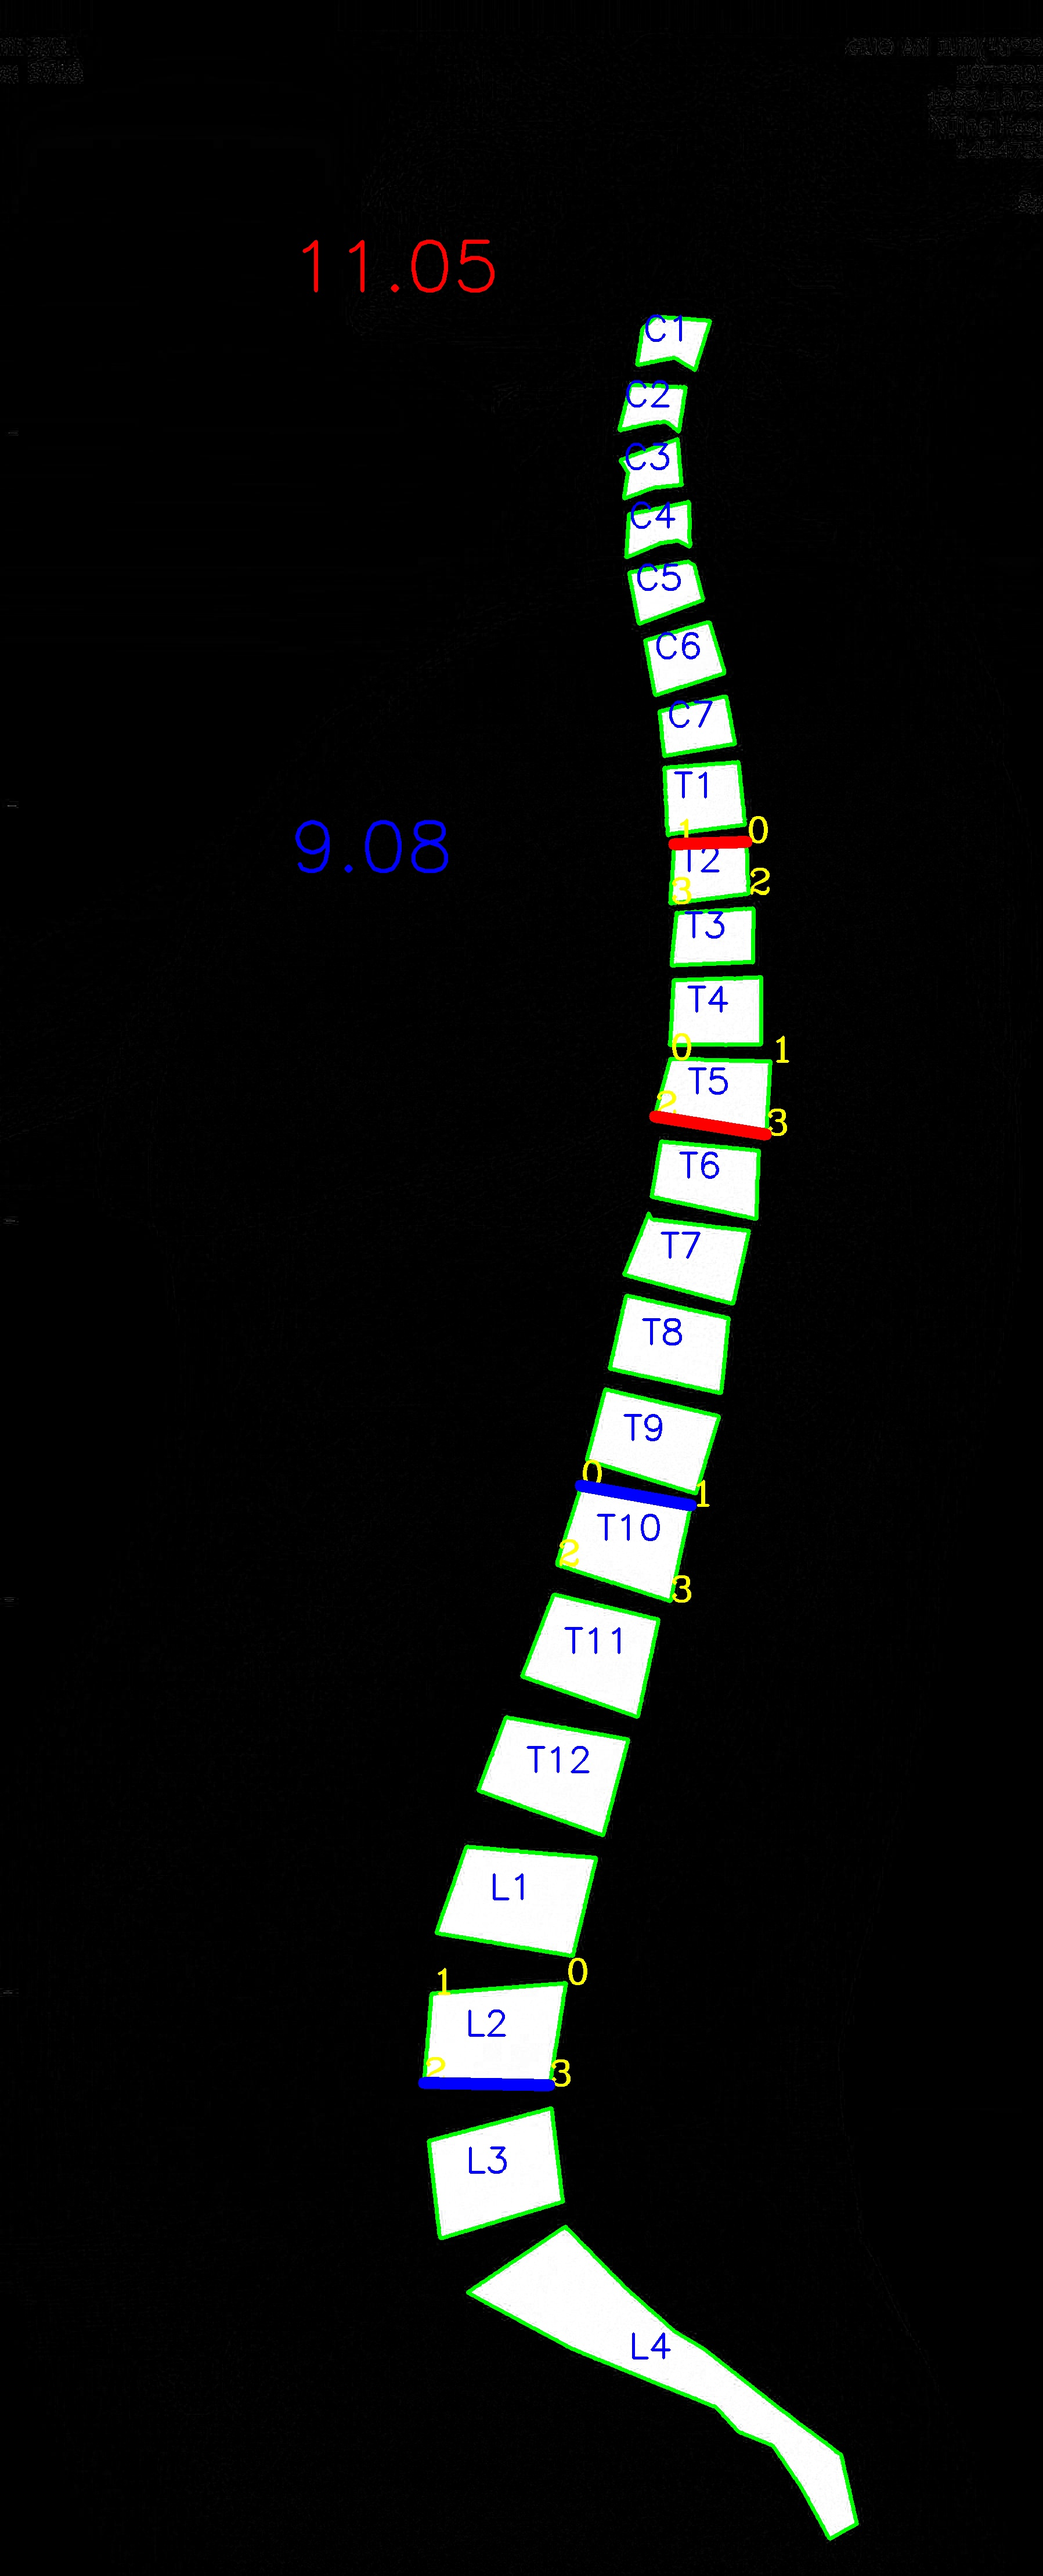
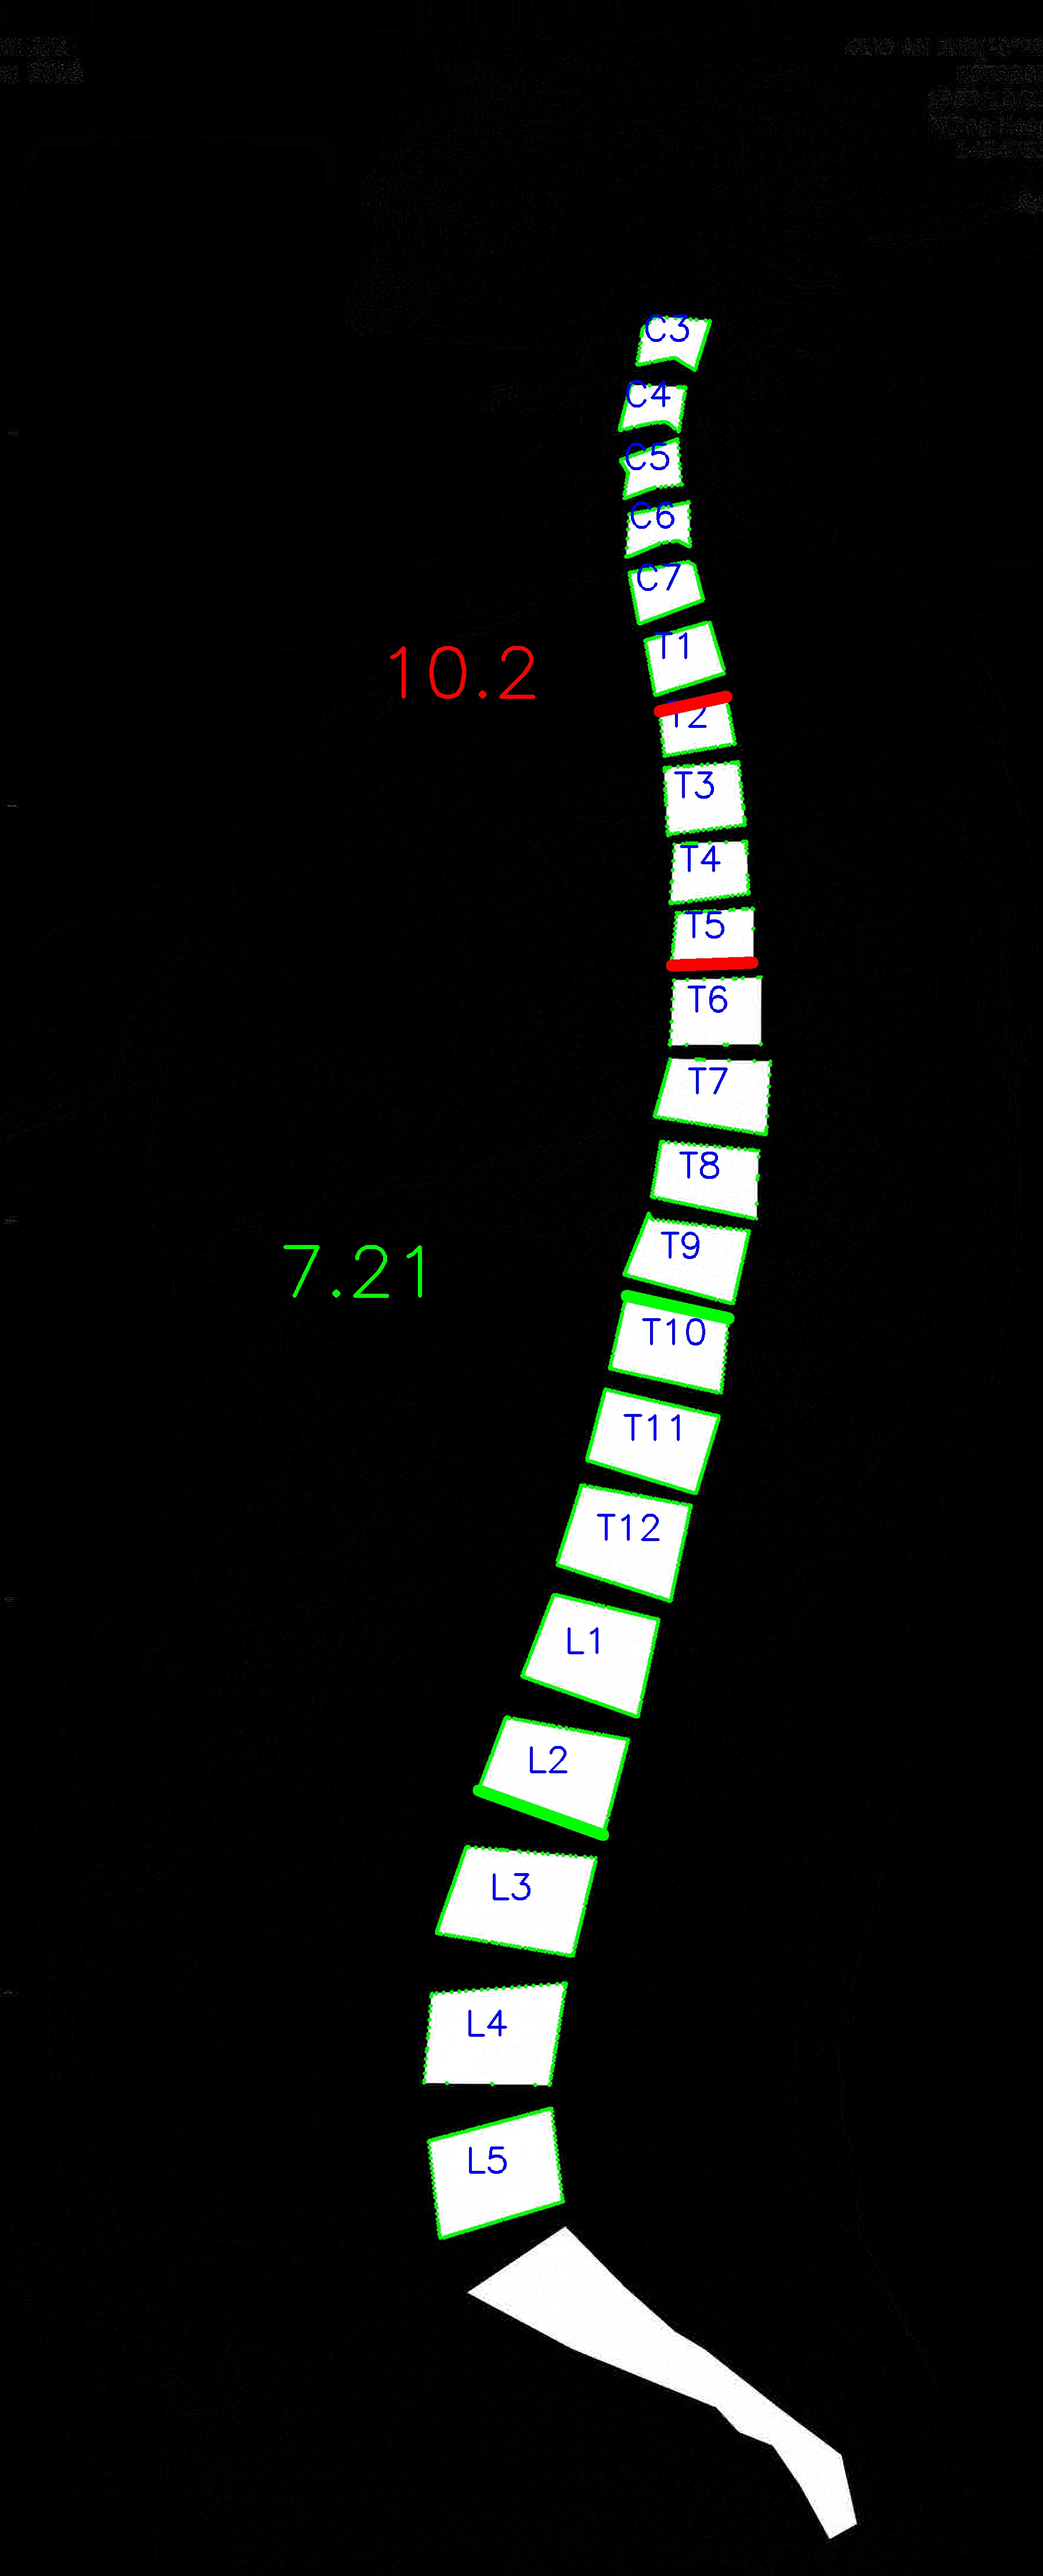
modify

diff --git a/sagittal_plane_cobb.py b/sagittal_plane_cobb.py
@@ -16,14 +16,13 @@ red = (0, 0, 255)
 green = (0, 255, 0)
 blue = (255, 0, 0)
 font = cv.FONT_HERSHEY_COMPLEX
-name_list = ['C1', 'C2', 'C3', 'C4', 'C5', 'C6', 'C7', 'T1', 'T2', 'T3', 'T4', 'T5', 'T6', 'T7', 'T8', 'T9', 'T10',
-             'T11', 'T12', 'L1', 'L2', 'L3', 'L4']
+name_list = ['L5', 'L4', 'L3', 'L2', 'L1', 'T12', 'T11', 'T10', 'T9', 'T8', 'T7', 'T6', 'T5', 'T4', 'T3', 'T2', 'T1',
+             'C7', 'C6', 'C5', 'C4', 'C3', 'C2', 'C1']
 id_t2 = 8
 id_t5 = 11
 id_t10 = 16
 id_l2 = 20
 
-print(len(name_list))
 for item in tqdm(img_list):
     file = os.path.join(img_dir, item)
     output_file = os.path.join(output, item)
@@ -32,14 +31,16 @@ for item in tqdm(img_list):
     imgray = cv.cvtColor(im, cv.COLOR_BGR2GRAY)
     ret, thresh = cv.threshold(imgray, 100, 255, 0)
     contours, hierarchy = cv.findContours(thresh, cv.RETR_TREE, cv.CHAIN_APPROX_SIMPLE)
-    # 椎骨rect信息列表，y值从小到大
+
+    # 筛选出真正的椎骨
+    # 面积过小的不要，最后一个不要
     rect_list = []
     final_contour_info = []
     final_contour = []
     for index in range(len(contours)):
         contour = contours[index]
         area = cv.contourArea(contour)
-        if area > 2000:
+        if 2000 < area < 40000:
             # print(area)
             M = cv.moments(contour)
             cX = int(M["m10"] / M["m00"])
@@ -47,62 +48,70 @@ for item in tqdm(img_list):
             center = (cX, cY)
             contour_info = {'center': center, 'contour': contour}
             final_contour_info.append(contour_info)
-            final_contour.append(contour)
-    cv.drawContours(im, final_contour, -1, green, 5)
-    # print(len(final_contour))
 
+    # 倒序所有轮廓，并去除最下面的轮廓
     sort_contours = final_contour_info.copy()
-    sort_contours.sort(key=lambda x: x['center'][1])
-    print(len(sort_contours))
+    sort_contours.sort(key=lambda x: x['center'][1], reverse=True)
+    # sort_contours = sort_contours[1:]
+    # print(len(sort_contours))
+
+    # 将所有脊柱块命名
+    new_vertebra = []
     for id in range(len(sort_contours)):
+        # 画出轮廓信息和名字
+        cv.drawContours(im, sort_contours[id]['contour'], -1, green, 5)
         center = (sort_contours[id]['center'][0] - 50, sort_contours[id]['center'][1])
         im = cv.putText(im, str(name_list[id]), center, cv.FONT_HERSHEY_SIMPLEX, 2, blue, 3)
 
-    cal_con = [sort_contours[id_t2], sort_contours[id_t5], sort_contours[id_t10], sort_contours[id_l2]]
-    cal_vertix = []
-    for item in cal_con:
-        cnt = item['contour']
+        # 计算脊柱块的四个点
+        cnt = sort_contours[id]['contour']
         approx = cv.approxPolyDP(cnt, 0.009 * cv.arcLength(cnt, True), True)
         n = approx.ravel()  # 变为一维数组
-        vertexs = []
+        points = []
+        # 都只存四个点
         for i in range(8):
             if i % 2 == 0:
                 point = (n[i], n[i + 1])
-                vertexs.append(point)
-        if len(vertexs) == 4:
-            cal_vertix.append(vertexs)
+                points.append(point)
+        points.sort(key=lambda x: x[1])  # 四个点按照上下排序
+        vertebra = {'name': name_list[id], 'center': sort_contours[id]['center'], 'points': points,
+                    'contour': sort_contours[id]['contour']}
+        new_vertebra.append(vertebra)
 
-    # 需要计算的顶点调整位置
-    for item in cal_vertix:
-        item.sort(key=lambda x: x[1])
-        for id in range(len(item)):
-            cv.putText(im, str(id), item[id], font, 2, yellow, 3)
-    slope_up = []
-    slope_down = []
-    count = 0
-    for item in cal_vertix:
-        up_slope = (item[0][1] - item[1][1]) / (item[0][0] - item[1][0])
-        down_slope = (item[2][1] - item[3][1]) / (item[2][0] - item[3][0])
-        slope_up.append(up_slope)
-        slope_down.append(down_slope)
+    calculate_vertebra = []
+    for item in new_vertebra:
+        if item['name'] == 'T2' or item['name'] == 'T5' or item['name'] == 'T10' or item['name'] == 'L2':
+            points = item['points']
+            up_slope = (points[0][1] - points[1][1]) / (points[0][0] - points[1][0])
+            down_slope = (points[2][1] - points[3][1]) / (points[2][0] - points[3][0])
+            cal = {'name': item['name'], 'up_slope': up_slope, 'down_slope': down_slope, 'points':points}
+            calculate_vertebra.append(cal)
+    k1 = 0
+    k2 = 0
+    k3 = 0
+    k4 = 0
+    putpoint0 = (0, 0)
+    putpoint1 = (0, 0)
+    for item in calculate_vertebra:
+        if item['name'] == 'T2':
+            k1 = item['up_slope']
+            cv.line(im, item['points'][0], item['points'][1], red, 20)
+            putpoint0 = ( item['points'][0][0]-600, item['points'][0][1])
+        if item['name'] == 'T5':
+            k2 = item['down_slope']
+            cv.line(im, item['points'][2], item['points'][3], red, 20)
+        if item['name'] == 'T10':
+            k3 = item['up_slope']
+            cv.line(im, item['points'][0], item['points'][1], green, 20)
+            putpoint1 = (item['points'][0][0] - 600, item['points'][0][1])
+        if item['name'] == 'L2':
+            k4 = item['down_slope']
+            cv.line(im, item['points'][2], item['points'][3], green, 20)
 
-        if count == 0:
-            cv.line(im, item[0], item[1], red, 20)
-        if count == 1:
-            cv.line(im, item[2], item[3], red, 20)
-        if count == 2:
-            cv.line(im, item[0], item[1], blue, 20)
-        if count == 3:
-            cv.line(im, item[2], item[3], blue, 20)
-        count += 1
-    k1 = slope_up[0]
-    k2 = slope_down[1]
-    k3 = slope_up[2]
-    k4 = slope_down[3]
     cobb1 = math.degrees(atan(abs((k2 - k1) / (1 + k1 * k2))))
     cobb2 = math.degrees(atan(abs((k3 - k4) / (1 + k3 * k4))))
-    im = cv.putText(im, str(round(cobb1, 2)), (500, 500), cv.FONT_HERSHEY_SIMPLEX, 4,
+    im = cv.putText(im, str(round(cobb1, 2)),putpoint0, cv.FONT_HERSHEY_SIMPLEX, 4,
                     red, 5)
-    im = cv.putText(im, str(round(cobb2, 2)), (500, 1500), cv.FONT_HERSHEY_SIMPLEX, 4,
-                    blue, 5)
+    im = cv.putText(im, str(round(cobb2, 2)), putpoint1, cv.FONT_HERSHEY_SIMPLEX, 4,
+                    green, 5)
     cv.imwrite(output_file, im)

diff --git a/coronal_plane_cobb.py b/coronal_plane_cobb.py
@@ -16,9 +16,9 @@ yellow = (0, 255, 255)
 red = (0, 0, 255)
 green = (0, 255, 0)
 blue = (255, 0, 0)
-name_list = ['C1', 'C2', 'C3', 'C4', 'C5', 'C6', 'C7', 'T1', 'T2', 'T3', 'T4', 'T5', 'T6', 'T7', 'T8', 'T9', 'T10',
-             'T11', 'T12', 'L1', 'L2', 'L3', 'L4', 'L5']
-
+name_list = ['L5', 'L4', 'L3', 'L2', 'L1', 'T12', 'T11', 'T10', 'T9', 'T8', 'T7', 'T6', 'T5', 'T4', 'T3', 'T2', 'T1',
+             'C7', 'C6', 'C5', 'C4', 'C3', 'C2', 'C1']
+print(len(name_list))
 
 def draw_upper_vertebra(vertebrae_information, color):
     for item in vertebrae_information:
@@ -83,13 +83,21 @@ for item in tqdm(img_list):
         rect_list.append(rect)
     rect_list.sort(key=lambda item: item[0][1])  # 按照y值从小到大排序
 
+    mark_rect = rect_list.copy()
+    mark_rect.reverse()
+
     # 椎骨的端点信息,中心点，上端椎斜率，下端椎斜率
     vertebrae_information = []
     turning_location = []
+    for index in range(len(mark_rect)):
+        center = (int(mark_rect[index][0][0] - 50), int(mark_rect[index][0][1]))
+        im = cv.putText(im, str(name_list[index]), center, cv.FONT_HERSHEY_SIMPLEX, 2, blue, 3)
 
     for index in range(len(rect_list)):
-        center = (int(rect_list[index][0][0]-50), int(rect_list[index][0][1]))
-        im = cv.putText(im, str(name_list[index]), center, cv.FONT_HERSHEY_SIMPLEX, 2, blue, 3)
+        center = (int(rect_list[index][0][0] - 50), int(rect_list[index][0][1]))
+        # name_id = abs(index-(len(name_list) - 1))
+        # print(name_id)
+        # im = cv.putText(im, str(name_list[index]), center, cv.FONT_HERSHEY_SIMPLEX, 2, blue, 3)
 
         # 保存椎骨顶点信息
         box = cv.boxPoints(rect_list[index])
@@ -155,7 +163,7 @@ for item in tqdm(img_list):
 
         # 标注出角度
         y = int(slope_decline[end_index]['center'][1] + \
-            (slope_decline[0]['center'][1]-slope_decline[end_index]['center'][1])/2)
+                (slope_decline[0]['center'][1] - slope_decline[end_index]['center'][1]) / 2)
         put_point = (slope_decline[0]['center'][0] - 500, y)
         im = cv.putText(im, str(round(angle, 2)), put_point, cv.FONT_HERSHEY_SIMPLEX, 4,
                         red, 4)
